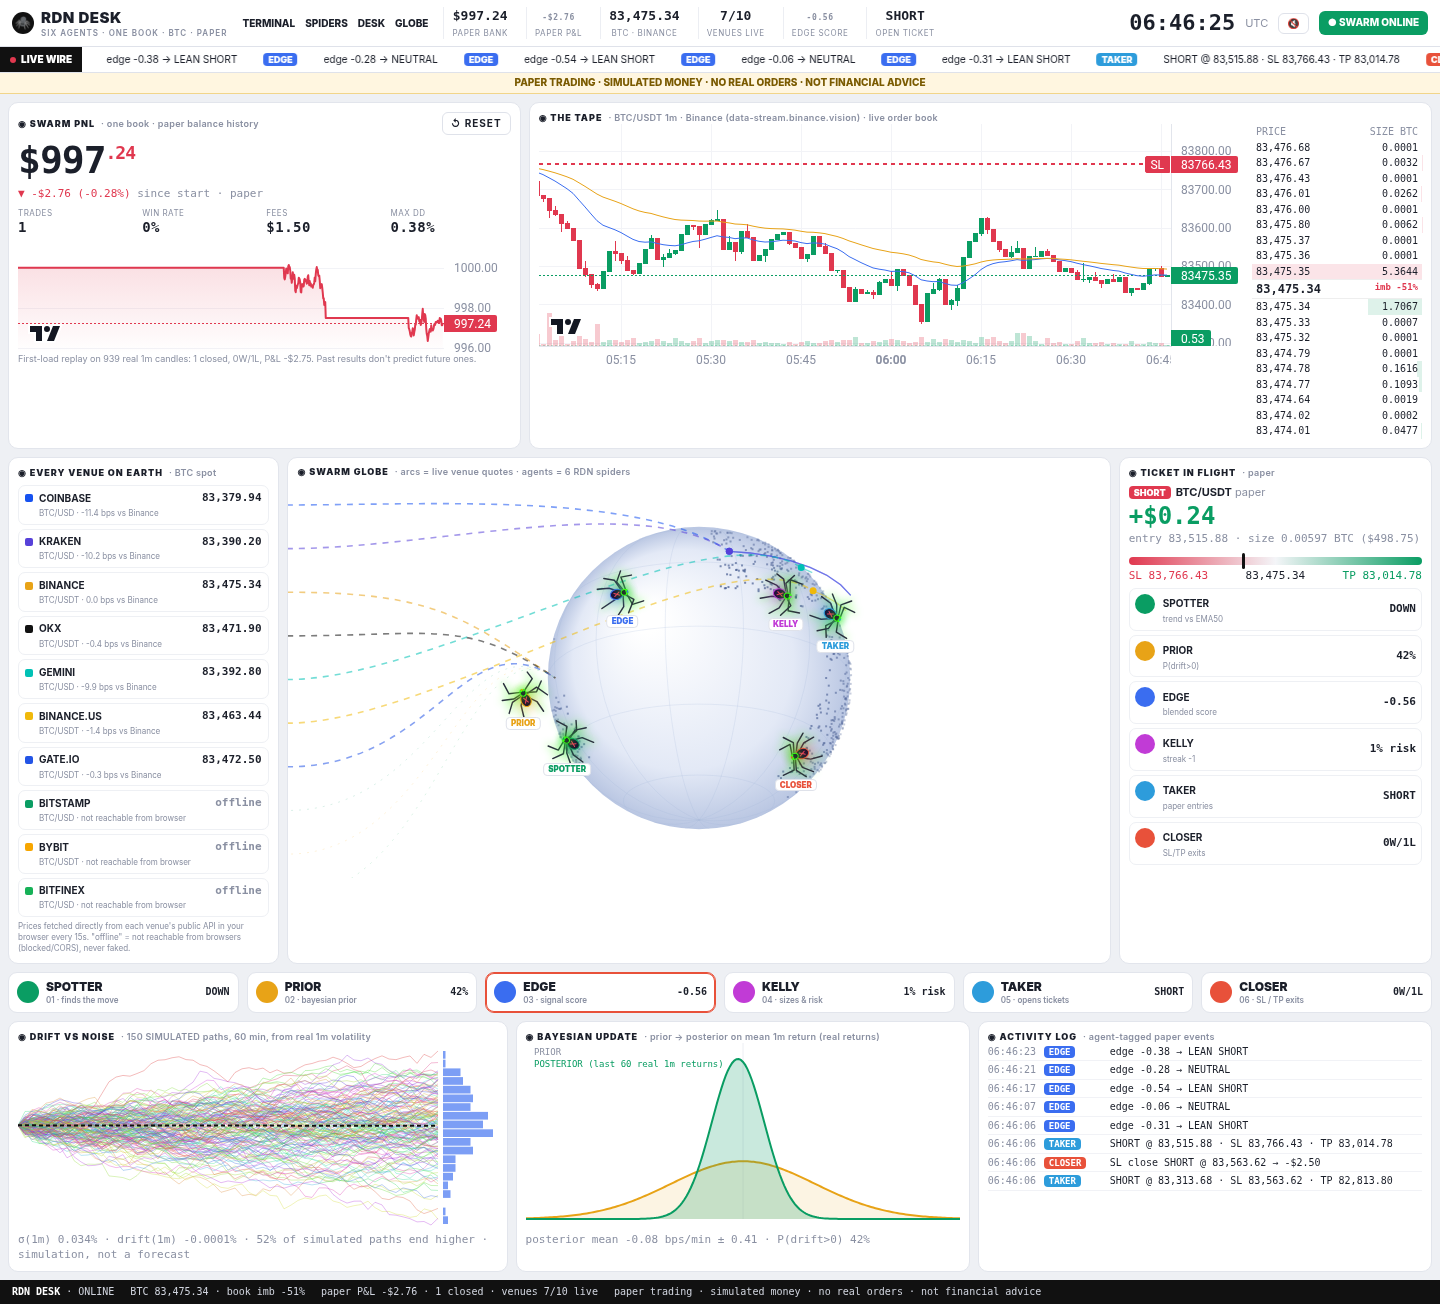
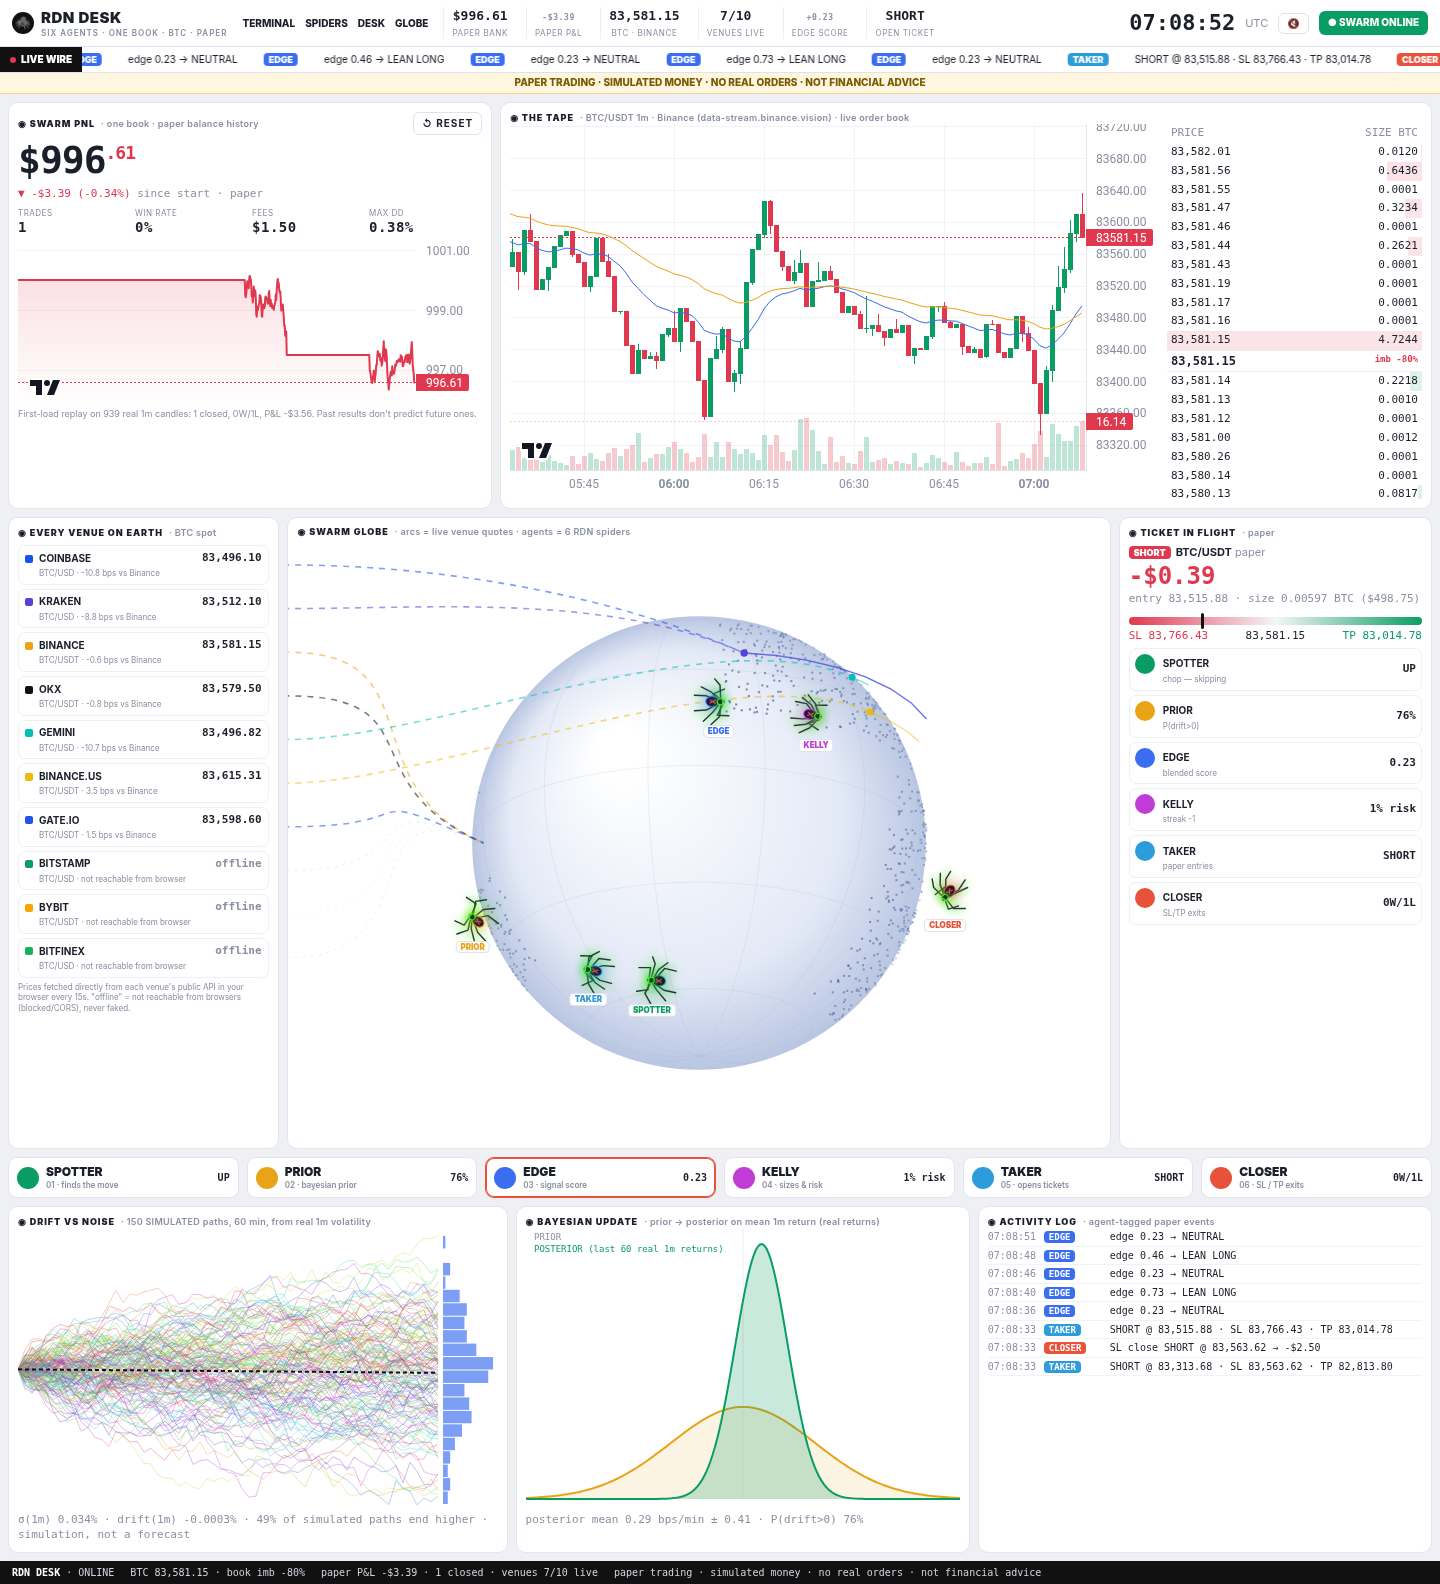
Globe: charts 50% larger, mobile overflow fix

diff --git a/globe/index.html b/globe/index.html
@@ -2,7 +2,7 @@
 <title>RDN Desk · Globe</title>
 <script src="https://unpkg.com/lightweight-charts@4.2.0/dist/lightweight-charts.standalone.production.js"></script>
 <style>
-*{box-sizing:border-box}body{margin:0;background:#eef0f4;color:#1b1f2a;font:11px/1.35 Inter,system-ui,sans-serif}
+*{box-sizing:border-box}body{margin:0;overflow-x:hidden;background:#eef0f4;color:#1b1f2a;font:11px/1.35 Inter,system-ui,sans-serif}
 .mono{font-family:ui-monospace,Menlo,monospace}.up{color:#0a9d63}.dn{color:#e0384f}.mut{color:#8a90a2}
 nav{display:flex;align-items:center;gap:10px;background:#fff;border-bottom:1px solid #dfe2ea;padding:7px 12px;flex-wrap:wrap}
 .logo{display:flex;align-items:center;gap:7px;font-weight:900;font-size:15px;letter-spacing:.5px}.logo i{width:22px;height:22px;border-radius:50%;background:#111;display:inline-flex;align-items:center;justify-content:center;color:#fff;font-style:normal;font-size:13px}
@@ -19,25 +19,25 @@ nav{display:flex;align-items:center;gap:10px;background:#fff;border-bottom:1px s
 main{padding:8px;display:grid;gap:8px}
 .card{background:#fff;border:1px solid #e2e5ec;border-radius:10px;padding:9px;position:relative;min-width:0}
 .ttl{font-size:9px;font-weight:900;letter-spacing:1px;color:#1b1f2a;text-transform:uppercase;display:flex;gap:6px;align-items:center}.ttl em{font-style:normal;color:#8a90a2;font-weight:600;letter-spacing:.3px;text-transform:none}
-.row1{display:grid;grid-template-columns:36% 1fr;gap:8px}
+.row1{display:grid;grid-template-columns:34% 1fr;gap:8px}
 .bigbal{font-size:38px;font-weight:900;letter-spacing:-1px}.bigbal small{font-size:18px;color:#e0384f;vertical-align:super}
 .kpis{display:grid;grid-template-columns:repeat(4,1fr);gap:4px;margin-top:6px}.kpis div{font-size:8px;color:#8a90a2;text-transform:uppercase;letter-spacing:.5px}.kpis b{display:block;font-size:14px;color:#1b1f2a;font-family:ui-monospace,Menlo,monospace}
-#spark{height:110px;margin-top:6px}
-.tape{display:grid;grid-template-columns:1fr 170px;gap:8px}#tapeC{height:250px}
-.ladder{font-family:ui-monospace,Menlo,monospace;font-size:10px}.ladder div{display:flex;justify-content:space-between;position:relative;padding:1px 4px}.ladder i{position:absolute;right:0;top:0;bottom:0;z-index:0}.ladder span{position:relative;z-index:1}
+#spark{height:165px;margin-top:6px}
+.tape{display:grid;grid-template-columns:1fr 255px;gap:8px}#tapeC{height:375px}
+.ladder{font-family:ui-monospace,Menlo,monospace;font-size:11px}.ladder div{padding:2px 4px!important}.ladder{max-height:375px;overflow:hidden}.ladder div{display:flex;justify-content:space-between;position:relative;padding:1px 4px}.ladder i{position:absolute;right:0;top:0;bottom:0;z-index:0}.ladder span{position:relative;z-index:1}
 .mid{font-weight:900;text-align:center;padding:3px;font-size:12px;border-top:1px solid #eee;border-bottom:1px solid #eee}
 .row2{display:grid;grid-template-columns:19% 1fr 22%;gap:8px}
 .ven div.v{display:grid;grid-template-columns:8px 1fr auto;gap:2px 6px;align-items:center;padding:5px 6px;border-radius:7px;margin-bottom:4px;border:1px solid #eef0f4}
 .ven .dot{width:8px;height:8px;border-radius:2px}.ven b{font-size:10px}.ven .p{font-family:ui-monospace,Menlo,monospace;font-weight:800;font-size:11px;text-align:right}.ven small{grid-column:2/4;color:#8a90a2;font-size:8px}
-#globeWrap{position:relative;height:420px}#globe{position:absolute;inset:0;width:100%;height:100%}
+#globeWrap{position:relative;height:630px}#globe{position:absolute;inset:0;width:100%;height:100%}
 .ticket .big{font-size:24px;font-weight:900;font-family:ui-monospace,Menlo,monospace}.ticket .bar{height:8px;border-radius:4px;background:linear-gradient(90deg,#e0384f,#f4f5f8 50%,#0a9d63);position:relative;margin:10px 0 4px}.ticket .bar i{position:absolute;top:-4px;width:3px;height:16px;background:#111;border-radius:2px}
 .agl div{display:grid;grid-template-columns:22px 1fr auto;gap:0 6px;align-items:center;padding:5px;border-radius:7px;border:1px solid #eef0f4;margin-top:4px}.agl .av{width:20px;height:20px;border-radius:50%;}.agl b{font-size:10px}.agl small{grid-column:2/3;color:#8a90a2;font-size:8px}.agl .m{grid-row:1/3;grid-column:3;font-family:ui-monospace,Menlo,monospace;font-weight:800}
 .tabs{display:grid;grid-template-columns:repeat(6,1fr);gap:8px}.tabs div{background:#fff;border:1px solid #e2e5ec;border-radius:9px;padding:6px 8px;display:flex;align-items:center;gap:7px;font-weight:900;font-size:12px}.tabs div.on{border-color:#e8513a;box-shadow:0 0 0 1px #e8513a inset}.tabs small{display:block;font-size:8px;color:#8a90a2;font-weight:600}.tabs .av{width:22px;height:22px;border-radius:50%}
-.row3{display:grid;grid-template-columns:1.1fr 1fr 1fr;gap:8px}canvas.p{width:100%;height:190px;display:block}
-.log{font-family:ui-monospace,Menlo,monospace;font-size:10px;max-height:200px;overflow:auto}.log div{display:grid;grid-template-columns:52px 62px 1fr;gap:4px;padding:2px 0;border-bottom:1px solid #f1f2f6}
+.row3{display:grid;grid-template-columns:1.1fr 1fr 1fr;gap:8px}canvas.p{width:100%;height:285px;display:block}
+.log{font-family:ui-monospace,Menlo,monospace;font-size:10px;max-height:330px;overflow:auto}.log div{display:grid;grid-template-columns:52px 62px 1fr;gap:4px;padding:2px 0;border-bottom:1px solid #f1f2f6}
 .status{display:flex;gap:16px;background:#111;color:#cfd3dd;padding:5px 12px;font-family:ui-monospace,Menlo,monospace;font-size:10px;flex-wrap:wrap}.status b{color:#fff}
 .nt{position:absolute;transform:translate(-50%,0);font-size:8px;font-weight:900;background:#fff;border:1px solid #dfe2ea;border-radius:4px;padding:0 4px;pointer-events:none;white-space:nowrap}
-@media(max-width:980px){.row1,.row2,.row3,.tape{grid-template-columns:1fr}.tabs{grid-template-columns:repeat(3,1fr)}#globeWrap{height:340px}}
+@media(max-width:980px){nav .stat{flex:1 1 30%}.tabs{grid-template-columns:repeat(2,1fr)!important}#clock{margin-left:0}#tapeC{height:300px}canvas.p{height:230px}.ladder{max-height:330px;overflow:hidden}.row1,.row2,.row3,.tape{grid-template-columns:1fr}.tabs{grid-template-columns:repeat(3,1fr)}#globeWrap{height:480px}}
 </style></head><body>
 <nav><div class="logo"><i>🕷</i><div>RDN DESK<small>SIX AGENTS · ONE BOOK · BTC · PAPER</small></div></div>
 <div class="navl"><a href="../">TERMINAL</a><a href="../skull/">SPIDERS</a><a href="../desk/">DESK</a><a href="#">GLOBE</a></div>
@@ -126,7 +126,7 @@ let slL=null,tpL=null,lastPK="";function lines(){for(const l of[slL,tpL])if(l)cs
 let book={bids:[],asks:[],imb:0};
 new WebSocket(WS+"btcusdt@kline_1m/btcusdt@depth20@1000ms/btcusdt@ticker").onmessage=e=>{const m=JSON.parse(e.data),d=m.data;
  if(m.stream.includes("kline")){const k=d.k,c=mk([k.t,k.o,k.h,k.l,k.c,k.v]);last=c.close;const L=tape.at(-1);if(L&&L.time===c.time)tape[tape.length-1]=c;else if(L&&c.time>L.time)tape.push(c);cs.update(c);vs.update({time:c.time,value:c.vol,color:c.close>=c.open?"#0a9d6344":"#e0384f44"})}
- else if(m.stream.includes("depth")){book.bids=d.bids.slice(0,9).map(x=>[+x[0],+x[1]]);book.asks=d.asks.slice(0,9).map(x=>[+x[0],+x[1]]);const bq=d.bids.reduce((s,x)=>s+ +x[1],0),aq=d.asks.reduce((s,x)=>s+ +x[1],0);book.imb=(bq-aq)/(bq+aq)}
+ else if(m.stream.includes("depth")){book.bids=d.bids.slice(0,11).map(x=>[+x[0],+x[1]]);book.asks=d.asks.slice(0,11).map(x=>[+x[0],+x[1]]);const bq=d.bids.reduce((s,x)=>s+ +x[1],0),aq=d.asks.reduce((s,x)=>s+ +x[1],0);book.imb=(bq-aq)/(bq+aq)}
  else last=+d.c};
 function ladder(){if(!book.bids.length)return;const mx=Math.max(...book.bids.map(x=>x[1]),...book.asks.map(x=>x[1]));
  const row=(x,c)=>`<div><i style="width:${x[1]/mx*100}%;background:${c}"></i><span>${fp(x[0])}</span><span>${x[1].toFixed(4)}</span></div>`;
